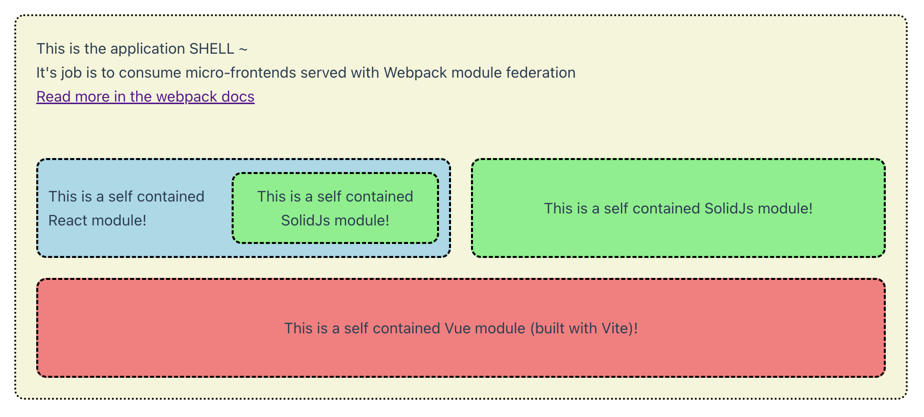
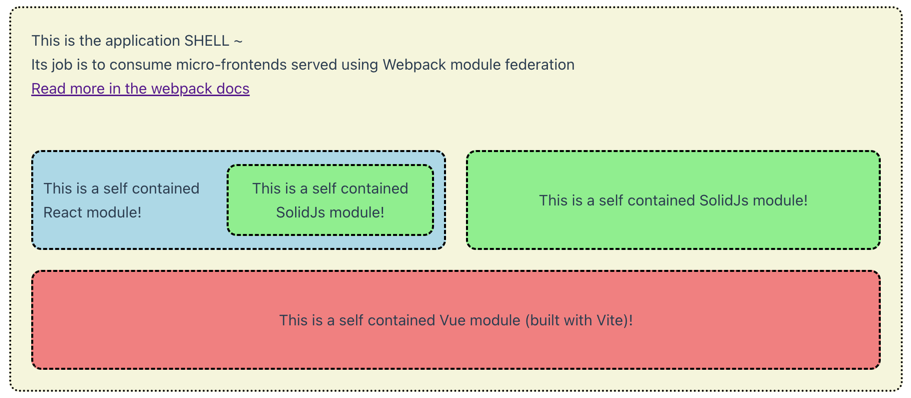
Update readme

Changed region(s): [[0.0, 0.0, 1.0, 0.995], [0.3074, 0.7538, 0.7069, 0.8442], [0.584, 0.4824, 0.8913, 0.5126]]

diff --git a/apps/shell/src/App.tsx b/apps/shell/src/App.tsx
@@ -10,7 +10,7 @@ function App() {
       <header>
         This is the application SHELL ~
       </header>
-      It's job is to consume micro-frontends served with Webpack module federation
+      Its job is to consume micro-frontends served using Webpack module federation
       <br />
       <a href="https://webpack.js.org/concepts/module-federation/">Read more in the webpack docs</a>
       <div className={styles.remotesContainer}>
